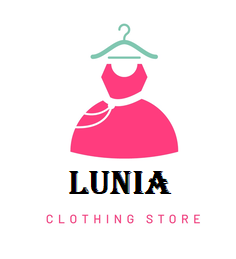
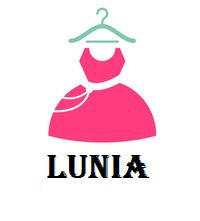
new

Changed region(s): [[0.18, 0.0271, 0.87, 0.8688], [0.69, 0.4344, 0.72, 0.4615], [0.66, 0.4072, 0.69, 0.4344]]

diff --git a/index.html b/index.html
@@ -235,7 +235,7 @@
           <div class="container">
             <div class="row d-flex align-items-center">
               <div class="col-lg-2 col-md-2">
-                <div class="main-logo">
+                <div class="main-logo" id="program">
                   <a href="index.html">
                     <img src="images/48.png" alt="logo" width="100" height="100">
                   </a>
@@ -248,10 +248,10 @@
                     <ul class="menu-list">
 
                       <li class="menu-item has-sub">
-                        <a href="index.html" class="item-anchor d-flex align-item-center" data-effect="Home">Home</a>
+                        <a href="index.html" id="navebar" class="item-anchor d-flex align-item-center" data-effect="Home">Home</a>
                       </li>
 
-                      <li><a href="about.html" class="item-anchor active" data-effect="About">About</a></li>
+                      <li><a href="about.html" class="item-anchor " data-effect="About">About</a></li>
 
                       <li class="menu-item has-sub">
                         <a href="shop.html" class="item-anchor d-flex align-item-center" data-effect="Shop">Shop</a>
@@ -550,7 +550,7 @@
           <h2 class="section-title">Best selling products</h2>
         </div>
         <ul class="tabs list-unstyled">
-          <li data-tab-target="#all" class="active tab">All</li>
+          <li data-tab-target="#all" class="active tab">All  </li>
           <li data-tab-target="#shoes" class="tab">Dresses</li>
           <li data-tab-target="#tshirts" class="tab">Blouses</li>
           <li data-tab-target="#pants" class="tab">Slobit</li>

diff --git a/style.css b/style.css
@@ -168,14 +168,14 @@ a {
   transition: 0.3s color ease-out;
 }
 p>a {
-  color: var(--primary-color);
+  color:blue;
 }
 a.light {
   color: var(--light-color);
 }
 a:hover {
   text-decoration: none;
-  color: var(--primary-color);
+  color:green;
 }
 ul, ol {
   margin-top: 0;
@@ -1619,10 +1619,15 @@ blockquote cite {
   text-transform: capitalize;
 }
 .menu-list a.item-anchor.active{
-  color: var(--primary-color);
+
+  background-color: #f0baf1;
+  border-radius: 5px;
+
 }
 .menu-list a.item-anchor:hover{
-  color: var(--primary-color);
+  
+  background-color: #f695f8;
+  border-radius: 5px;
 }
 .menu-item.has-sub .submenu a.item-anchor{
   padding-right: 15px;
@@ -2211,7 +2216,9 @@ i.icon.icon-arrow-io {
 }
 .tabs .tab.active,
 .tabs .tab:hover {
-    color: var(--primary-color);
+    color: blue;
+    /* background-color: #ca7cda;
+    border-radius: 5px; */
 }
 
 @media screen and (max-width: 991px) {
@@ -2889,4 +2896,12 @@ section.categories .category-content a{
 --------------------------------------------------------------*/
 .jarallax.min-height300 {
     min-height: 300px;
+}
+/* -------------tah57------------- */
+#program img {
+  width: 100px;
+  background-color: rgb(250, 138, 181);
+  padding: .5rem;
+  border-radius: 50%;
+  color: #08D9D6;
 }
